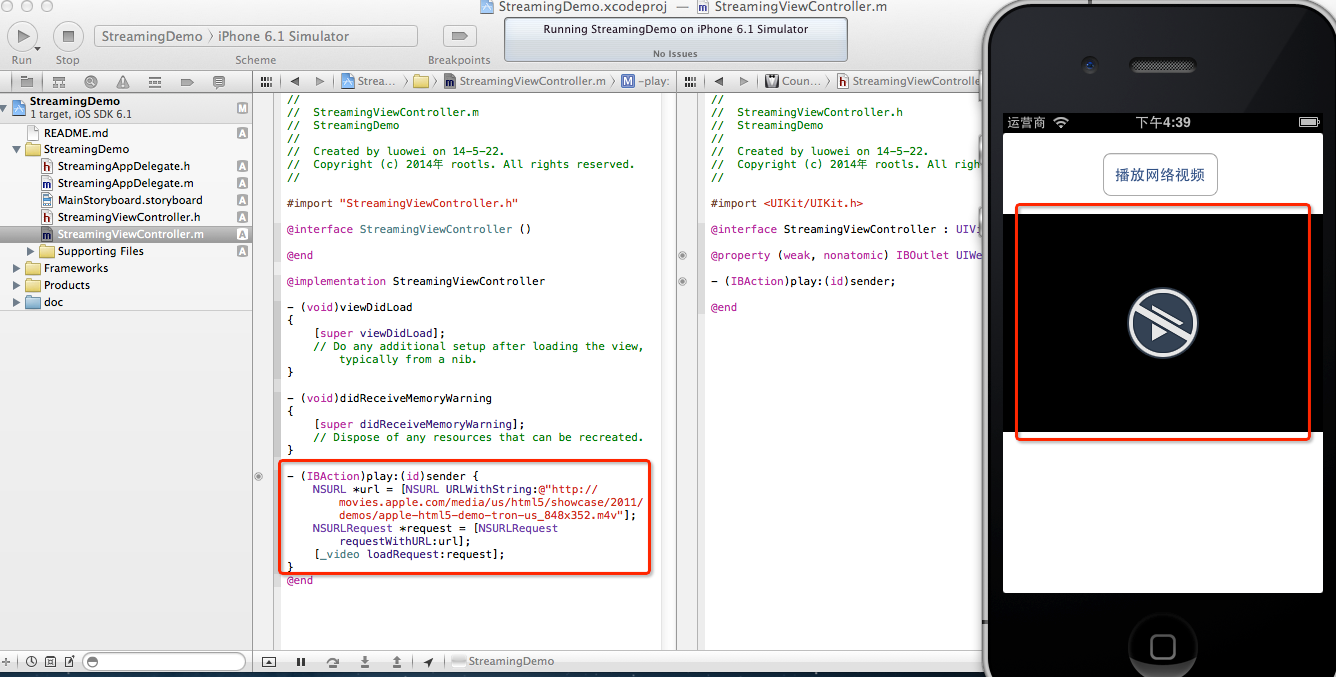
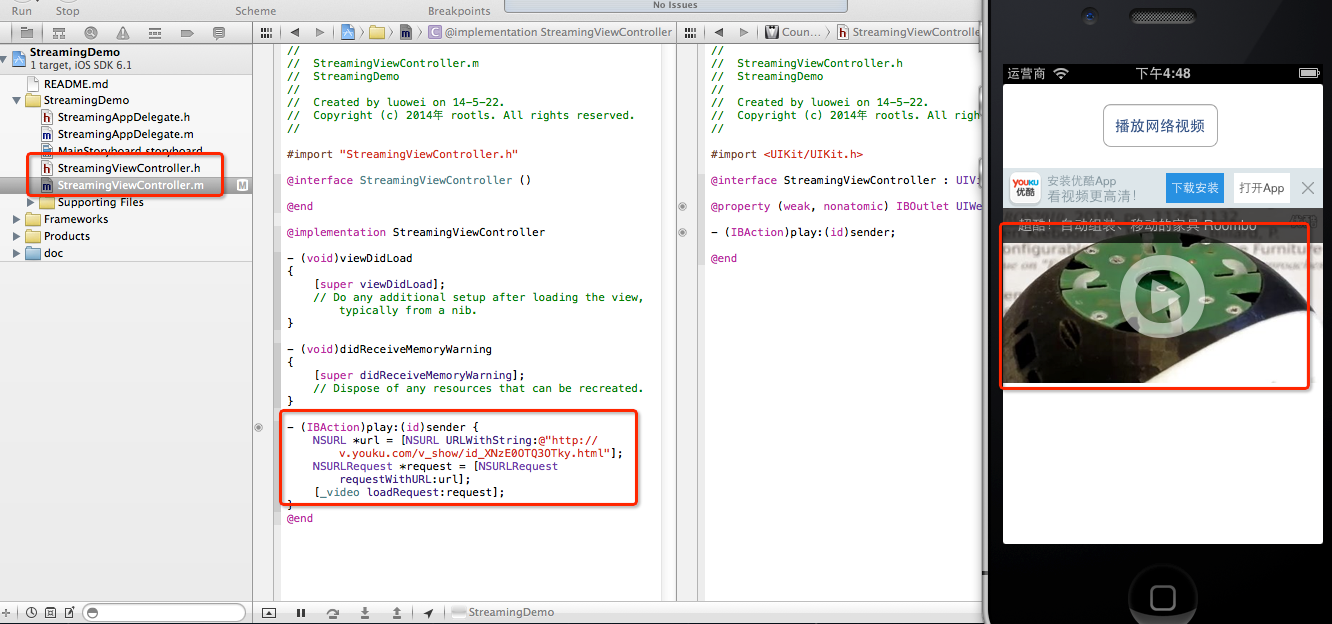
修改了StreamingDemo示例README.md

Changed region(s): [[0.0, 0.0, 1.0, 1.0], [0.8619, 0.9439, 0.8926, 1.0]]

diff --git a/StreamingDemo/StreamingDemo/StreamingViewController.m b/StreamingDemo/StreamingDemo/StreamingViewController.m
@@ -25,9 +25,9 @@
     [super didReceiveMemoryWarning];
     // Dispose of any resources that can be recreated.
 }
-	
+
 - (IBAction)play:(id)sender {
-    NSURL *url = [NSURL URLWithString:@"http://movies.apple.com/media/us/html5/showcase/2011/demos/apple-html5-demo-tron-us_848x352.m4v"];
+    NSURL *url = [NSURL URLWithString:@"http://v.youku.com/v_show/id_XNzE0OTQ3OTky.html"];
     NSURLRequest *request = [NSURLRequest requestWithURL:url];
     [_video loadRequest:request];
 }

diff --git a/StreamingDemo/README.md b/StreamingDemo/README.md
@@ -4,3 +4,4 @@ StreamingDemo
 播放网络视频的示例程序。。
 
 ![StreamingDemo](https://raw.githubusercontent.com/luowei/iOS-demos/master/StreamingDemo/doc/a.png)
+![StreamingDemo](https://raw.githubusercontent.com/luowei/iOS-demos/master/StreamingDemo/doc/b.png)
